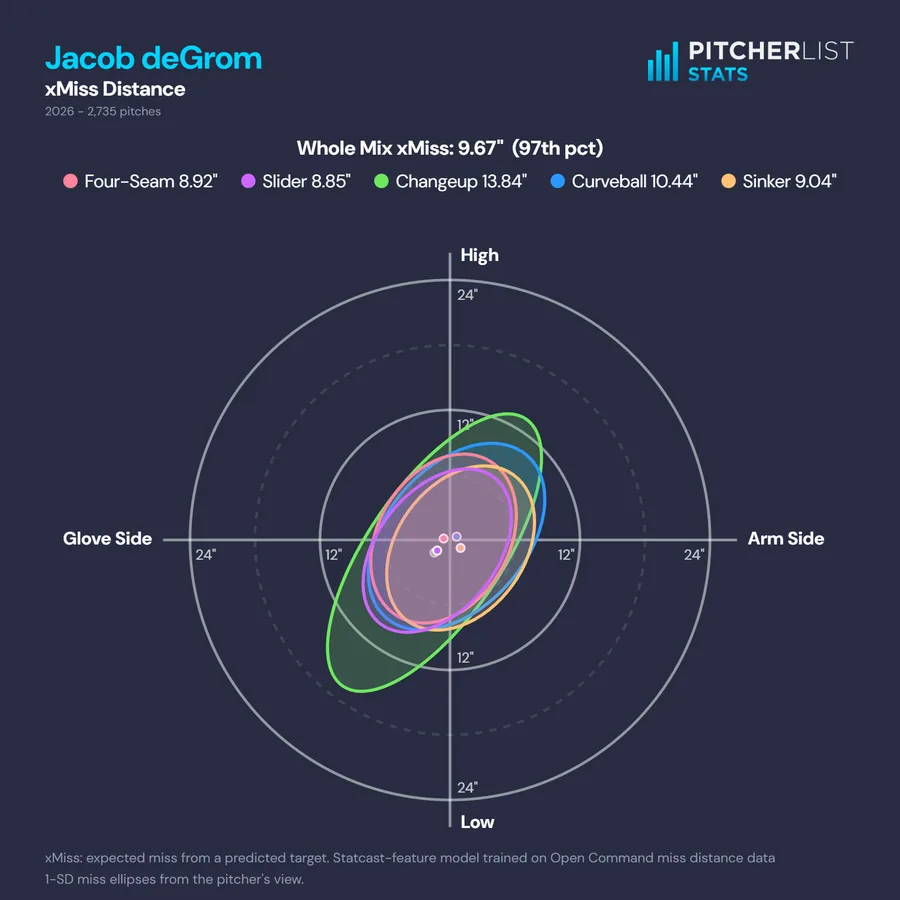
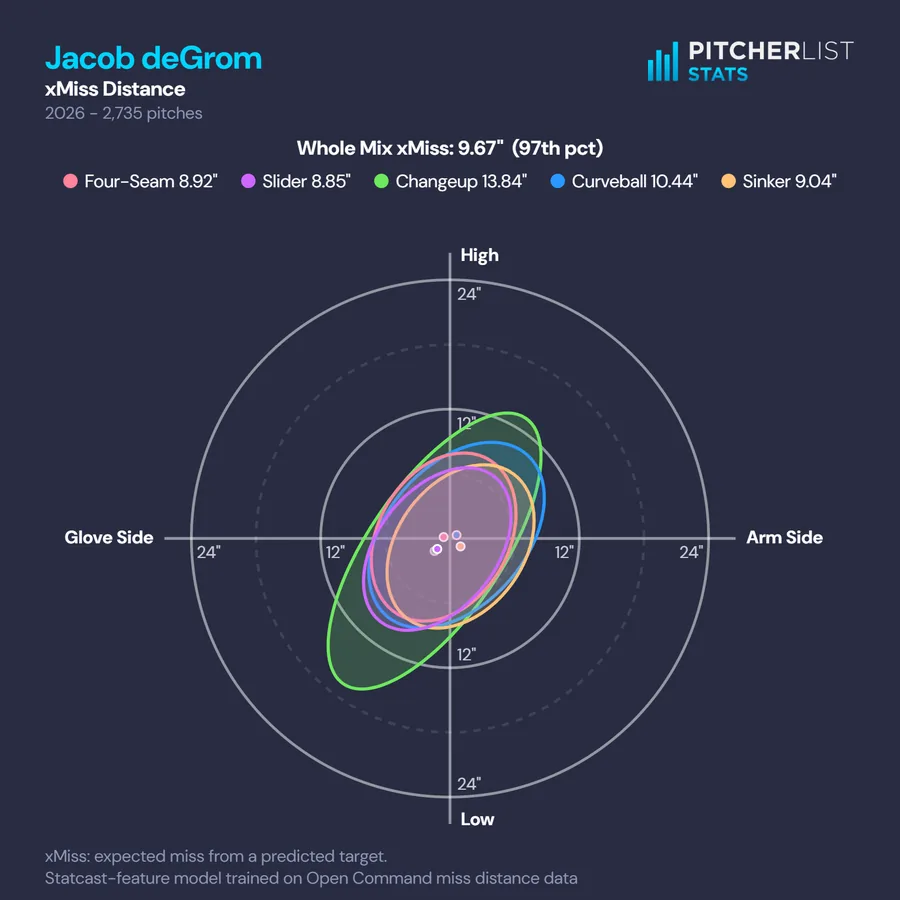
Homepage: regrab the xMiss tile (12px chart text, two-line footer)

diff --git a/index.html b/index.html
@@ -268,7 +268,7 @@
 								</article>
 									<article class="style4">
 									<span class="image">
-										<img src="images/tile-xmiss.webp?v=4" srcset="images/tile-xmiss-720.webp?v=4 720w, images/tile-xmiss.webp?v=4 900w" sizes="(max-width: 480px) 100vw, (max-width: 980px) 50vw, 380px" width="900" height="900" alt="Jacob deGrom's 2026 miss ellipses for each pitch type, from the pitcher's view" />
+										<img src="images/tile-xmiss.webp?v=5" srcset="images/tile-xmiss-720.webp?v=5 720w, images/tile-xmiss.webp?v=5 900w" sizes="(max-width: 480px) 100vw, (max-width: 980px) 50vw, 380px" width="900" height="900" alt="Jacob deGrom's 2026 miss ellipses for each pitch type, from the pitcher's view" />
 									</span>
 									<a href="/xmiss/">
 										<h2>xMiss</h2>
